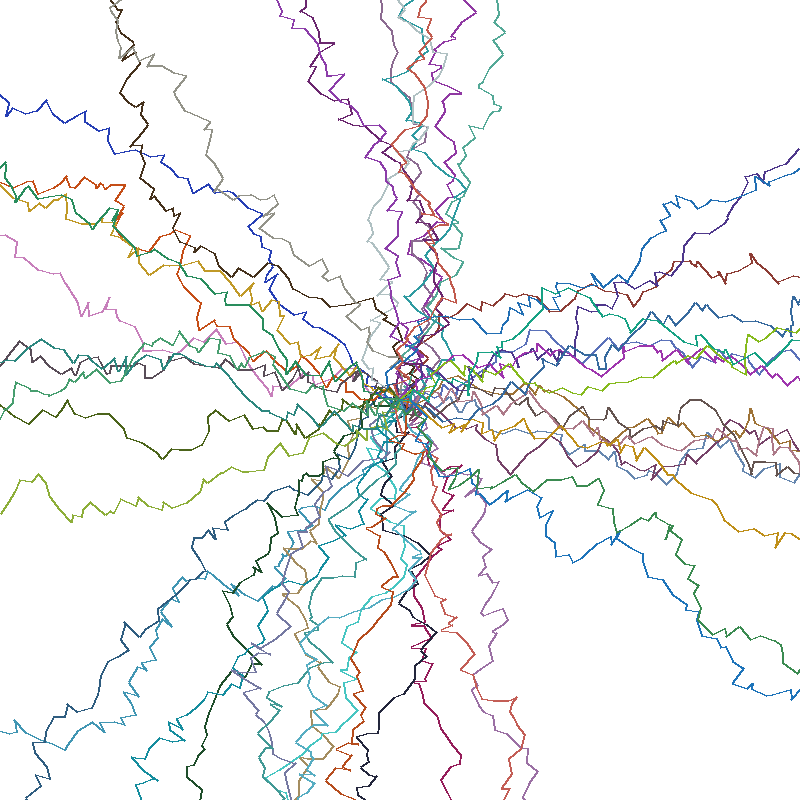
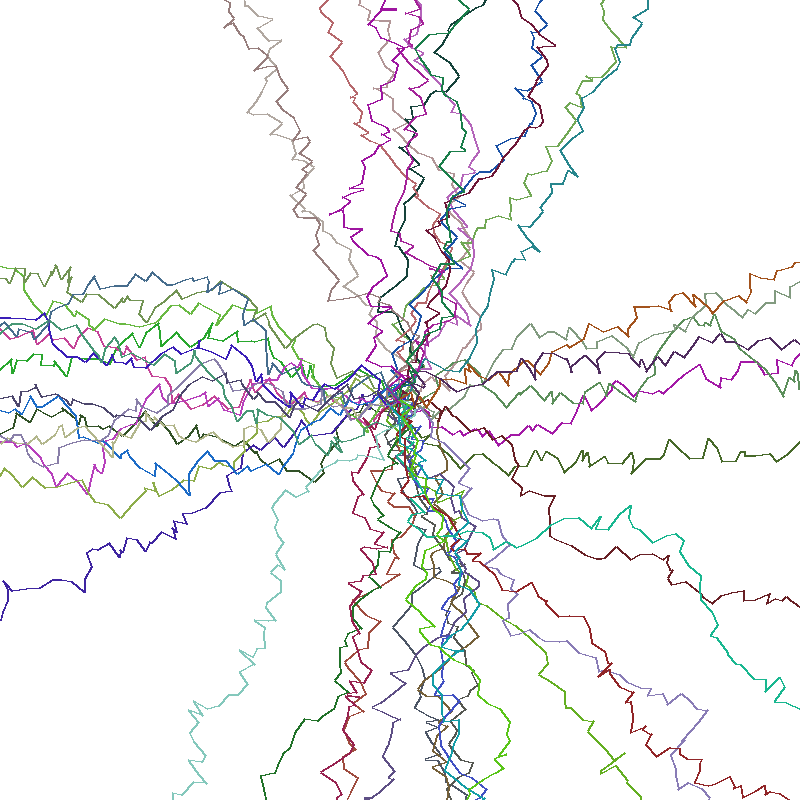
swap cal_distance func with built-in

diff --git a/main.py b/main.py
@@ -1,5 +1,5 @@
+import math
 from dataclasses import dataclass
-from math import sqrt
 from random import randint
 
 from PIL import Image, ImageDraw
@@ -33,13 +33,9 @@ def is_collide_border(p: Point) -> bool:
     )
 
 
-def cal_distance(p: Point) -> float:
-    return sqrt((CENTER.x - p.x) ** 2 + (CENTER.y - p.y) ** 2)
-
-
-def is_far_from_center(p1: Point, p2: Point) -> bool:
-    d1 = cal_distance(p1)
-    d2 = cal_distance(p2)
+def is_far_from_center(lpoint: Point, npoint: Point) -> bool:
+    d1 = math.dist((lpoint.x, lpoint.y), (CENTER.x, CENTER.y))
+    d2 = math.dist((npoint.x, npoint.y), (CENTER.x, CENTER.y))
     return d2 > d1
 
 
